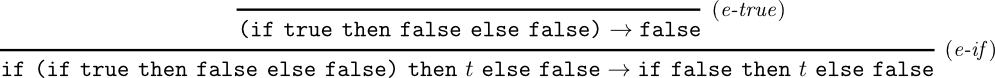
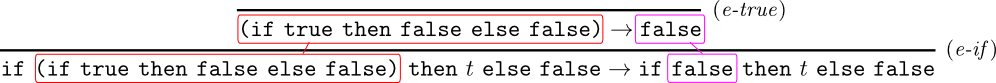
fixed coffeescript derivation trees

diff --git a/_diagrams/coffee-script-fix.tex b/_diagrams/coffee-script-fix.tex
@@ -126,27 +126,34 @@
 
 \section{CS Ambigious Derivations}
 
-\begin{equation*}
-\trfrac[\;\small{(\text{??})}]{
-  \trfrac[\rulelabel{e-inv}]{}{\lambda \lit*{true} \lit*{()} \right \rightarrow \lit*{true}}
-}{
-  \lambda \lit*{true} \lit*{()} \ \lambda \lit*{false} \rightarrow (??)
-}
-\end{equation*}
+\begin{equation}
+  \trfrac[\rulelabel{e-inv}]{}{\lambda \lit*{true} \lit*{()} \ \lambda \lit*{false} \right \rightarrow \lit*{true} \ \lambda \lit*{false}}
+\end{equation}
 
-\begin{equation*}
-\trfrac[\rulelabel{e-app}]{
-  \trfrac[\rulelabel{e-inv}]{}{\lambda \lambda \lit*{true} \lit*{()} \right \rightarrow \lambda \lit*{true}}
-}{
-  \lambda \lambda \lit*{true} \lit*{()} \ \lambda \lit*{false} \rightarrow \lit*{true}
+\begin{equation}
+\trfrac[\;\small{(\text{??})}]{}{
+  \lit*{true} \ \lambda \lit*{false} \rightarrow (??)
 }
-\end{equation*}
+\end{equation}
 
-\begin{equation*}
+\begin{equation}
+  \trfrac[\rulelabel{e-inv}]{}{
+    \lambda \lambda \lit*{true} \lit*{()} \ \lambda \lit*{false} \right \rightarrow \lambda \lit*{true} \ \lambda \lit*{false}
+  }
+}
+\end{equation}
+
+\begin{equation}
+\trfrac[\rulelabel{e-app}]{}{
+  \lambda \lit*{true} \ \lambda \lit*{false} \rightarrow \lambda \lit*{true}
+}
+\end{equation}
+
+\begin{equation}
 \trfrac[\rulelabel{e-app}]{}{
   \lambda \lambda \lit*{true} \ \lambda \lit*{false} \rightarrow \lambda \lit*{true}
 }
-\end{equation*}
+\end{equation}
 
 \newpage
 

diff --git a/_posts/2012-11-27-math-envy-and-coffeescripts-foibles.md b/_posts/2012-11-27-math-envy-and-coffeescripts-foibles.md
@@ -236,7 +236,7 @@ Translating this example into the grammar representation yields a form that will
   <img src="/assets/images/diagrams/cs-derivation-trees-stuck.png"></img>
 </div>
 
-_e-inv_ is applied to `(-> true)()` because `-> false` can't evaluate any further (it's a value in `v`), but then what? The only rule that has evaluation in it's premise is _e-arg-eval_ and that only allows for the second term `-> false` to be evaluated. It does **not** allow for the consumption of an argument. _e-inv_ and _e-app_ are only good for terms with lambdas as the first subterm which is `true` after the initial application of _e-inv_. It's "stuck".
+_e-inv_ is applied to `(-> true)()` because `-> false` can't evaluate any further (it's a value in `v`), but then what? After applying _e-inv_ the first subterm is `true` and there are no evaluation rules that apply values to an arguement. Without any rules to apply to a term that isn't a value, it's "stuck".
 
 Here someone will say, "We already knew that because there's a type error when you evaluate the JavaScript!". Consider a slightly more complex example.
 
@@ -250,11 +250,13 @@ And the derivation tree to match.
   <img src="/assets/images/diagrams/cs-derivation-trees-not-stuck.png"></img>
 </div>
 
-The value returned by the first lambda can be applied to an argument with _e-app_ so the result of evaluation is `true`. Viewing the accompanying term with an additional space will provide contrast.
+The value returned by the first lambda **can** be applied to an argument with _e-app_ so the result of evaluation is `true`. Viewing the accompanying term with an additional space will provide contrast.
 
 ```coffeescript
 (-> (-> true)) () -> false
 ```
+
+In this case, the derivation tree consists of a single inference rule, _e-app_.
 
 <div class="center">
   <img src="/assets/images/diagrams/cs-derivation-trees-not-stuck-with-space.png"></img>
